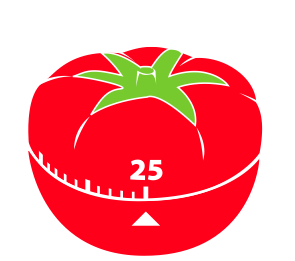
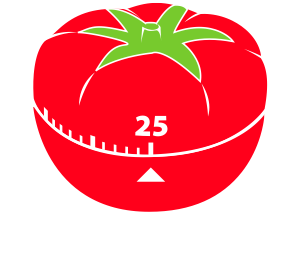
finish design

diff --git a/app/assets/stylesheets/sessions.scss b/app/assets/stylesheets/sessions.scss
@@ -1,3 +1,8 @@
 // Place all the styles related to the Sessions controller here.
 // They will automatically be included in application.css.
 // You can use Sass (SCSS) here: http://sass-lang.com/
+
+.main {
+    font-weight: bold;
+    font-size: 40px;
+}

diff --git a/app/assets/stylesheets/tasks.scss b/app/assets/stylesheets/tasks.scss
@@ -17,7 +17,7 @@
 .timer {
   color: red;
   font-weight: bold;
-  font-size: 40px;
+  font-size: 30px;
 }
 
 .pomodoros {
@@ -28,7 +28,6 @@
   display:inline-block;
 }
 
-.img {
+.img_timer {
   height: 40px;
-  
 }

diff --git a/app/assets/stylesheets/application.css b/app/assets/stylesheets/application.css
@@ -13,3 +13,7 @@
  *= require_tree .
  *= require_self
  */
+.top_container {
+  margin-top: 120px;
+  margin-left: 50px;
+}

diff --git a/config/initializers/assets.rb b/config/initializers/assets.rb
@@ -9,3 +9,4 @@ Rails.application.config.assets.version = '1.0'
 # Precompile additional assets.
 # application.js, application.css, and all non-JS/CSS in app/assets folder are already added.
 # Rails.application.config.assets.precompile += %w( search.js )
+Rails.application.config.assets.precompile += %w( pomodoro.png )

diff --git a/app/controllers/sessions_controller.rb b/app/controllers/sessions_controller.rb
@@ -9,6 +9,7 @@ class SessionsController < ApplicationController
       log_in(user)
       redirect_to user_path(current_user.id)
     else
+      flash.now[:alert] = "We don't seem to know that user. Please try logging in again, or click \"Sign up\" if you are a new user."
       render 'new'
     end
   end
